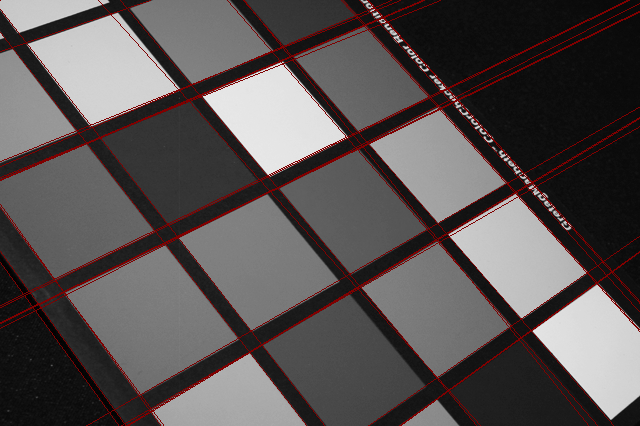
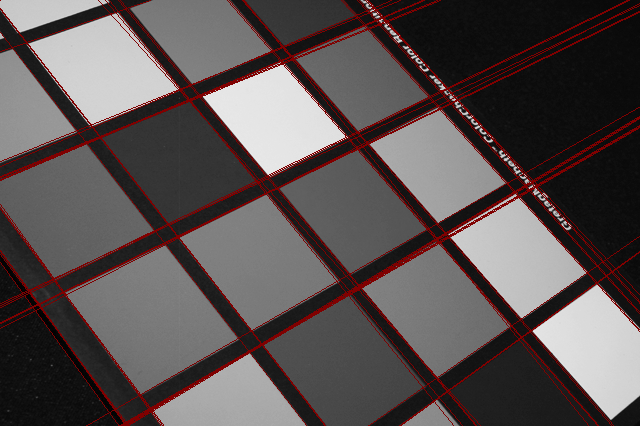
tune image1 Thresholds

diff --git a/hw3_starter/Python/runHw3.py b/hw3_starter/Python/runHw3.py
@@ -147,7 +147,7 @@ def challenge1c():
 
     img_list = ['hough_1.png', 'hough_2.png', 'hough_3.png']
 
-    hough_threshold = [180, 160, 230];
+    hough_threshold = [142, 160, 230];
 
     for i, fn in enumerate(img_list):
         orig_img = Image.open(f"data/{fn}")
